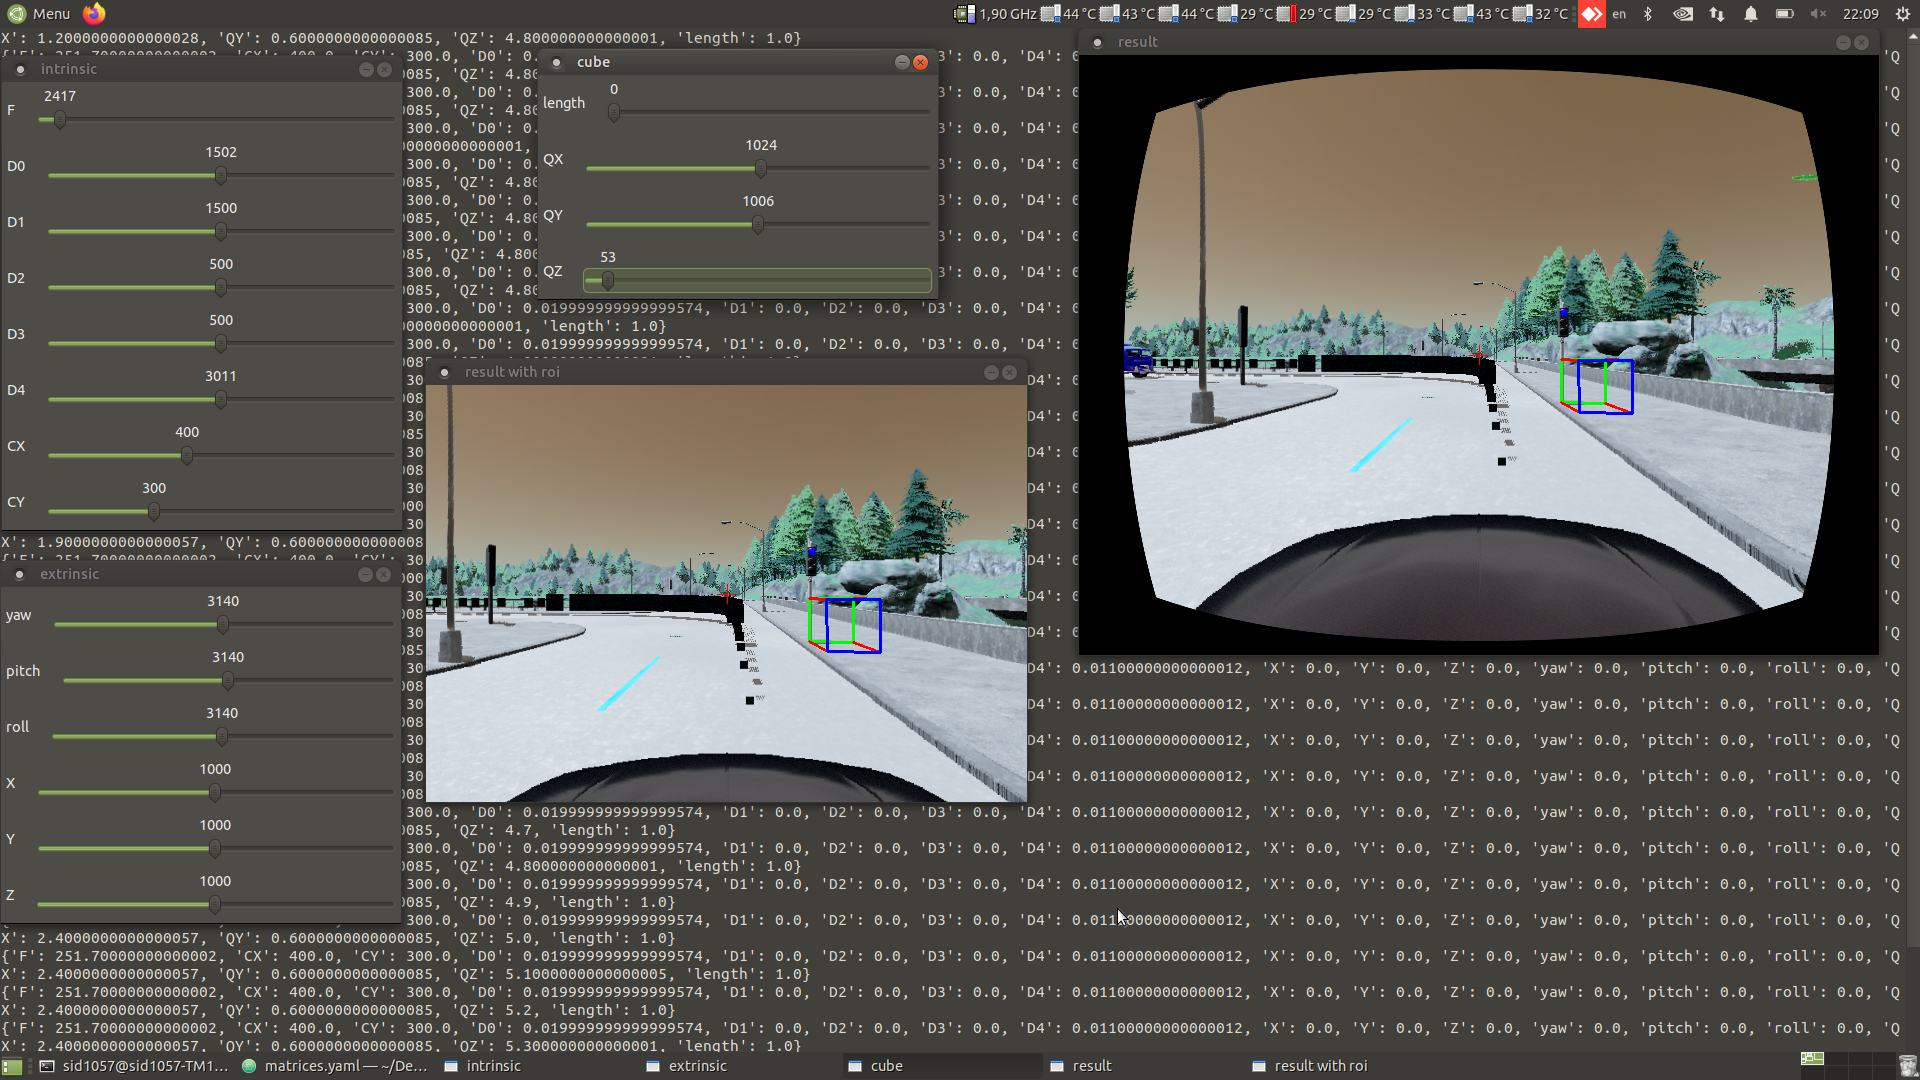
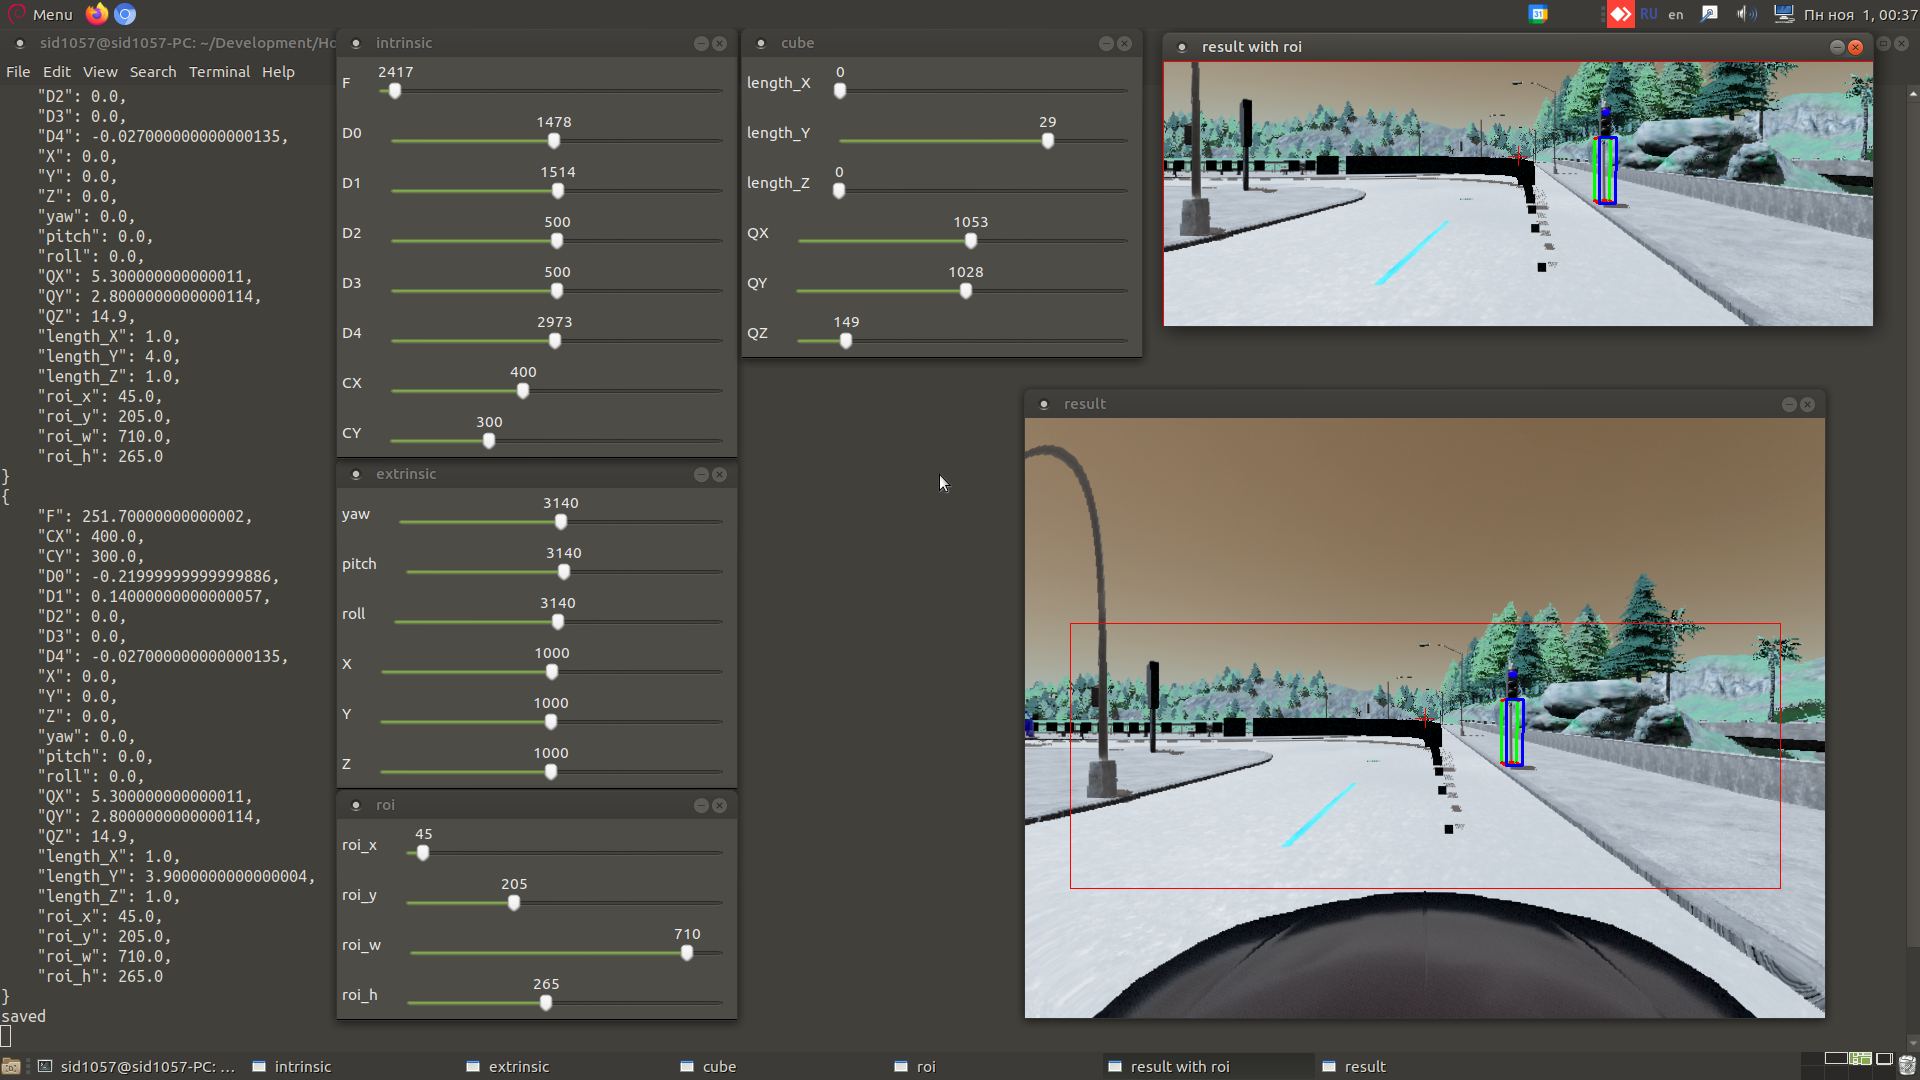
Add manual roi modifying

diff --git a/calibrator.py b/calibrator.py
@@ -22,6 +22,29 @@ with open(args.config, 'r') as stream:
 
 img = cv.imread(args.img)
 
+roi_node = {
+    'roi_x': {
+        'min_val': 0,
+        'max_val': img.shape[1],
+        'step': 1
+    },
+    'roi_y': {
+        'min_val': 0,
+        'max_val': img.shape[0],
+        'step': 1
+    },
+    'roi_w': {
+        'min_val': 0,
+        'max_val': img.shape[1],
+        'step': 1
+    },
+    'roi_h': {
+        'min_val': 0,
+        'max_val': img.shape[0],
+        'step': 1
+    },
+}
+
 K = np.zeros((3, 3), dtype=np.float32)
 K[2][2] = 1
 dist = np.zeros((1, 5), dtype=np.float32)
@@ -55,6 +78,11 @@ parameters = {
     'length_X': 0,
     'length_Y': 0,
     'length_Z': 0,
+
+    'roi_x': 0,
+    'roi_y': 0,
+    'roi_w': img.shape[1],
+    'roi_h': img.shape[0],
 }
 
 io = {
@@ -68,6 +96,7 @@ interface = {
     'show_ROI': True,
     'show_withour_ROI': True,
     'show_original': True,
+    'custom_roi': True,
     'print_online': True,
     'width': 400
 }
@@ -100,7 +129,11 @@ def create_ui():
     interface['show_pp'] = bool(config['interface']['show_pp'])
     interface['show_original'] = bool(config['interface']['show_original'])
     interface['print_online'] = bool(config['interface']['print_online'])
+    interface['custom_roi'] = bool(config['interface']['custom_roi'])
     interface['width'] = int(config['interface']['width'])
+
+    if interface['custom_roi'] is True:
+        cv.namedWindow('roi')
 
     def create_trackbar_parameters_handler(key, step, alpha):
         def trackbar_handler(val):
@@ -134,6 +167,11 @@ def create_ui():
     create_trackbar('extrinsic', 'X', config['T'])
     create_trackbar('extrinsic', 'Y', config['T'])
     create_trackbar('extrinsic', 'Z', config['T'])
+
+    create_trackbar('roi', 'roi_x', roi_node, default_value=0)
+    create_trackbar('roi', 'roi_y', roi_node, default_value=0)
+    create_trackbar('roi', 'roi_w', roi_node, default_value=img.shape[1])
+    create_trackbar('roi', 'roi_h', roi_node, default_value=img.shape[0])
 
 
     create_trackbar('cube', 'length_X', config['CUBE'], default_value=1)
@@ -200,11 +238,26 @@ if __name__ == "__main__":
                 cv.line(dst, tuple(imgpoints[i%4].tolist()), tuple(imgpoints[(i+1)%4].tolist()), blue, 2)
 
         # optimal matrix
+        x, y = 0, 0
         h, w = img.shape[:2]
         K_original = K.copy()
 
-        K, roi = cv.getOptimalNewCameraMatrix(
-            K, dist, (w, h), 1, (w,h))
+        if interface['custom_roi']:
+            x = min(max(0, parameters['roi_x']), img.shape[1]-2)
+            y = min(max(0, parameters['roi_y']), img.shape[0]-2)
+            w = min(max(2, parameters['roi_w']), img.shape[1])
+            h = min(max(2, parameters['roi_h']), img.shape[0])
+        else:
+            _, roi = cv.getOptimalNewCameraMatrix(
+                K, dist, (w, h), 1, (w,h))
+            x, y, w, h = roi
+            parameters['roi_x'] = x
+            parameters['roi_y'] = y
+            parameters['roi_w'] = w
+            parameters['roi_h'] = h
+        K[0][2] -= x
+        K[1][2] -= y
+        roi = np.asarray((x, y, w, h)).astype(np.int32)
         x, y, w, h = roi
 
         if interface['show_pp']:
@@ -223,6 +276,9 @@ if __name__ == "__main__":
         cv.imshow('intrinsic', np.zeros((1, int(interface['width'])), dtype=np.uint8))
         cv.imshow('extrinsic', np.zeros((1, int(interface['width'])), dtype=np.uint8))
         cv.imshow('cube', np.zeros((1, int(interface['width'])), dtype=np.uint8))
+
+        if interface['custom_roi']:
+            cv.imshow('roi', np.zeros((1, int(interface['width'])), dtype=np.uint8))
 
         key = cv.waitKey(10)
         if key in (ord('s'), ord('S')):

diff --git a/README.md b/README.md
@@ -50,6 +50,7 @@ starts in `interface`
 |show_ROI|show undistorted image after roi selecting|
 |show_withour_ROI|show undistorted image before roi selecting|
 |show_original|show original uncalibrated image|
+|custom_roi|allow you to choose roi value manually|
 |print_online|update actual parameters information in terminal|
 |width|interface window width|
 
@@ -102,6 +103,7 @@ Sections:
 |intrinsic|slide bar for intrinsic camera calibration parameters|
 |extrinsic|slide bar for intrinsic camera calibration parameters|
 |cube|slide bar for physical virtual cube parameters|
+|roi|slide bar for roi parameters modifying|
 |original|original image|
 |result|image after applying calibration parameters|
 |result with ROI|image after applying calibration parameters and ROI selection|
